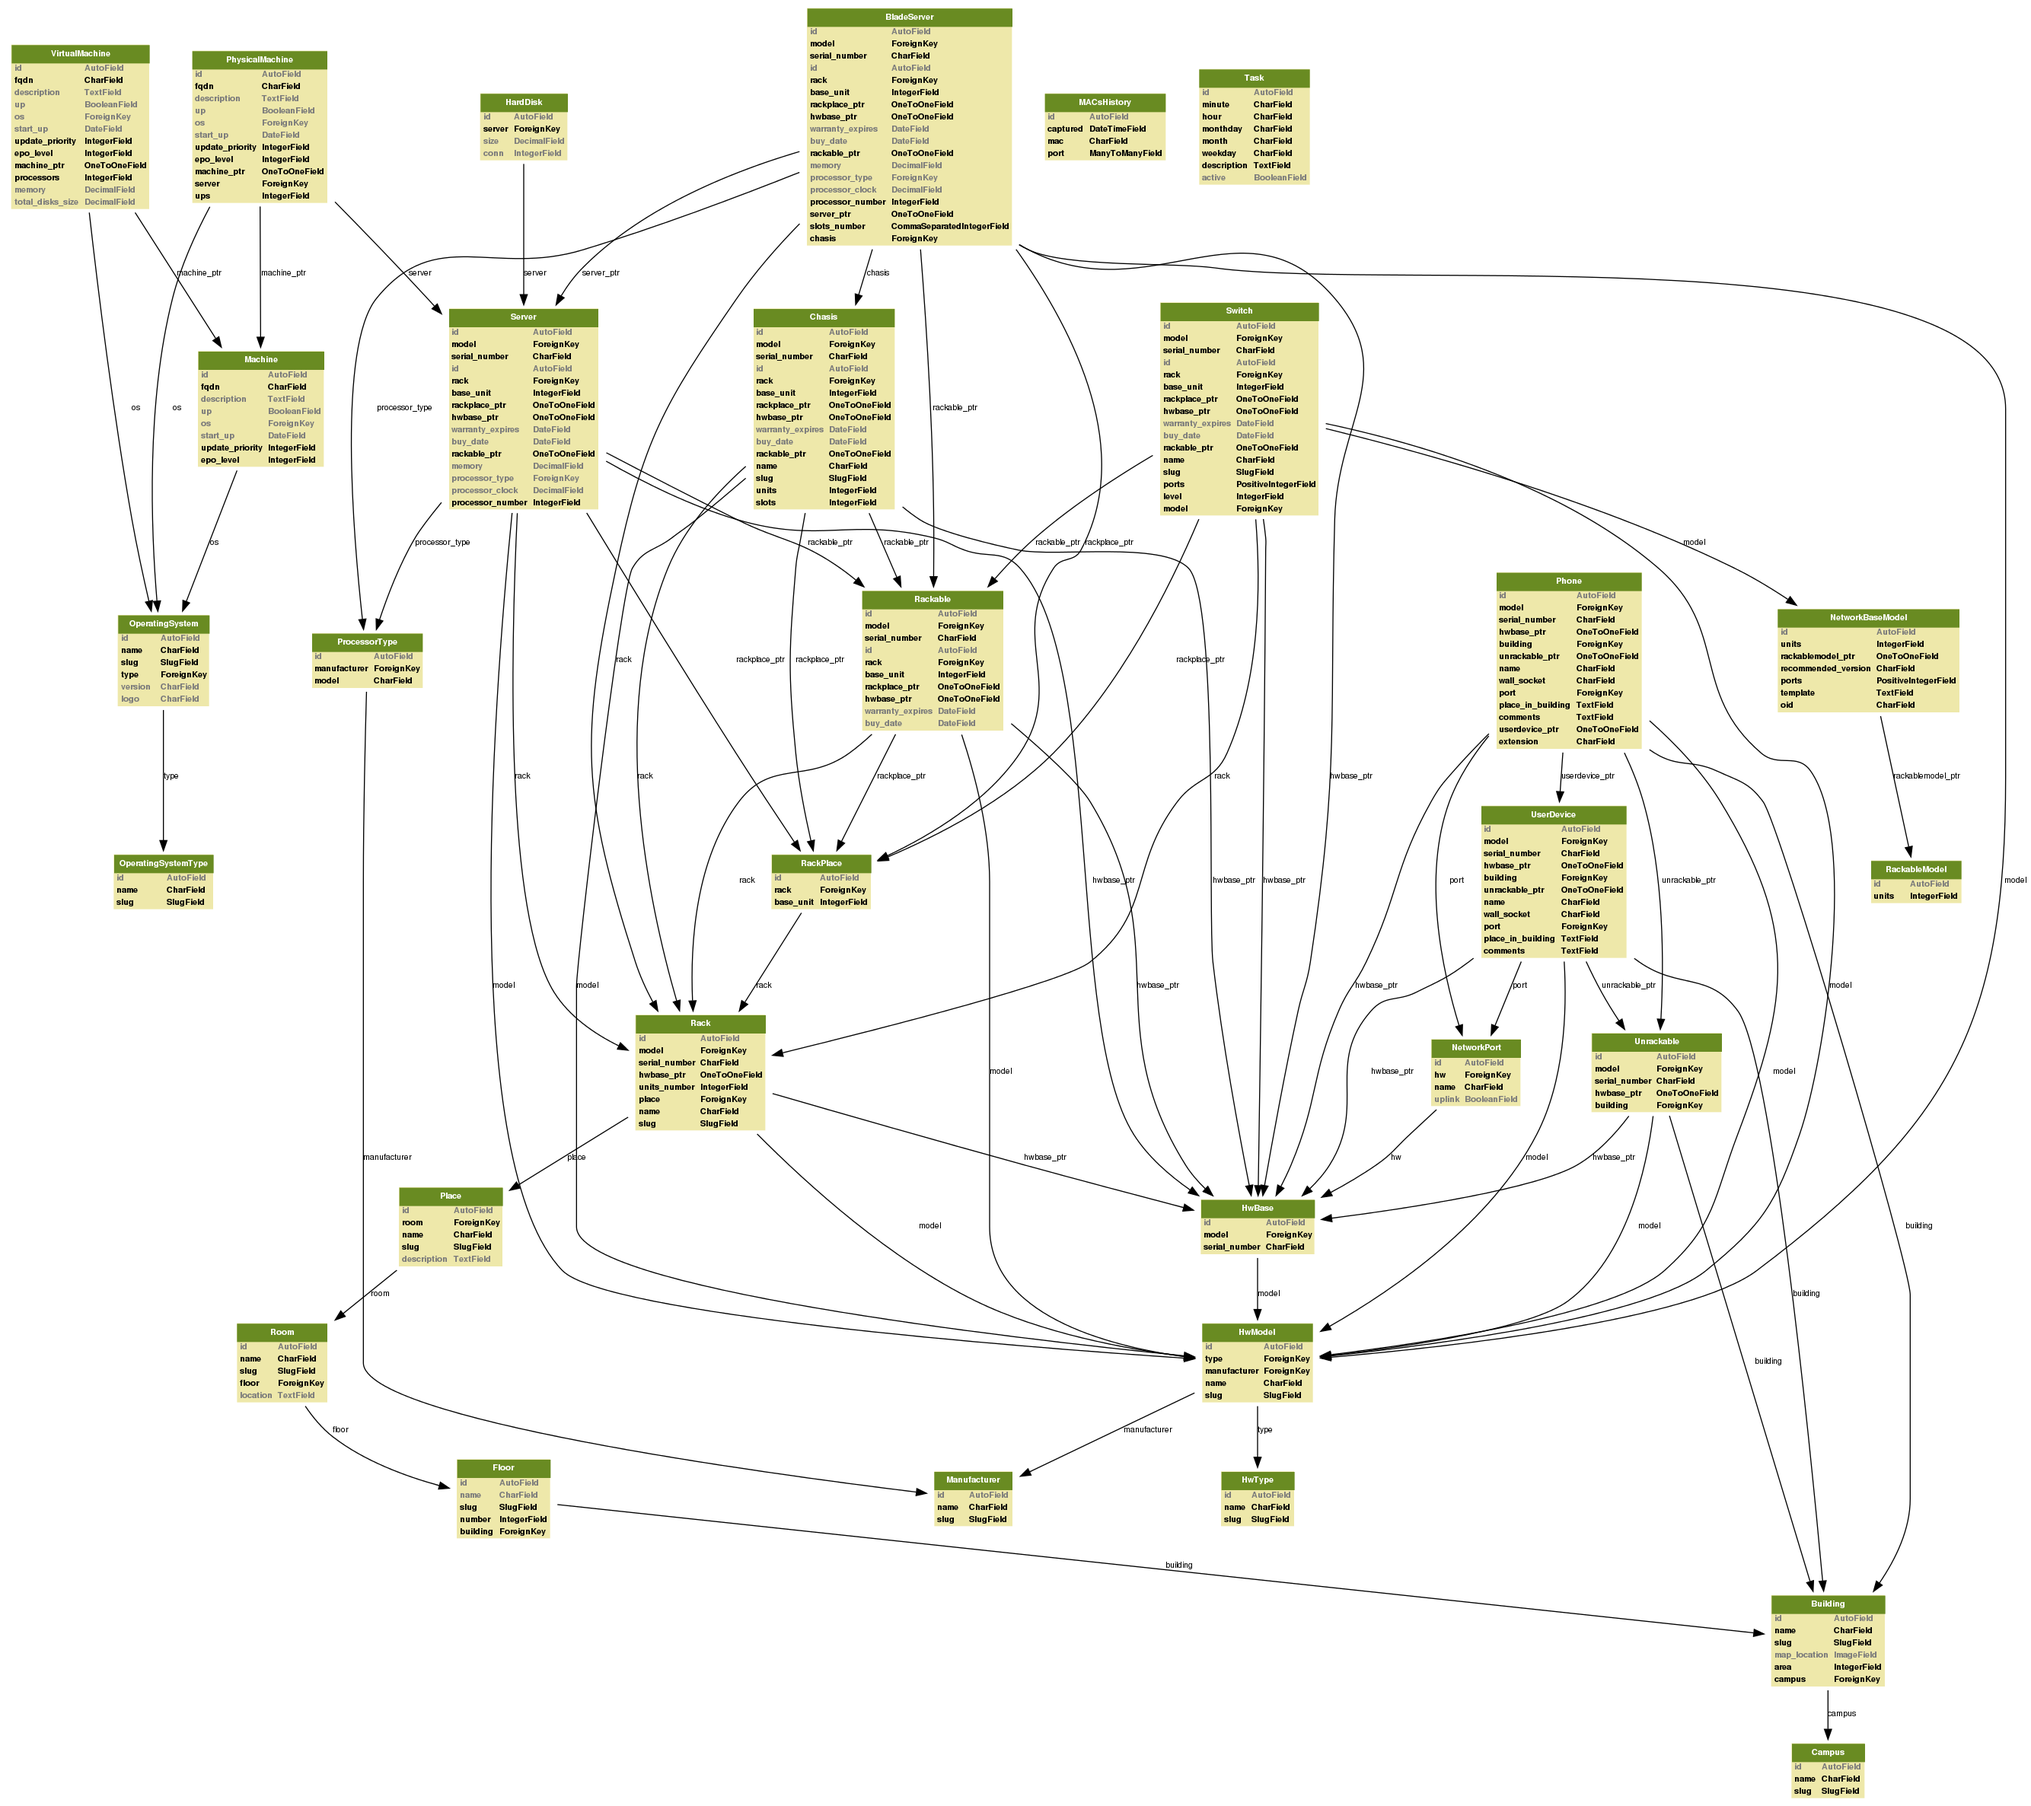
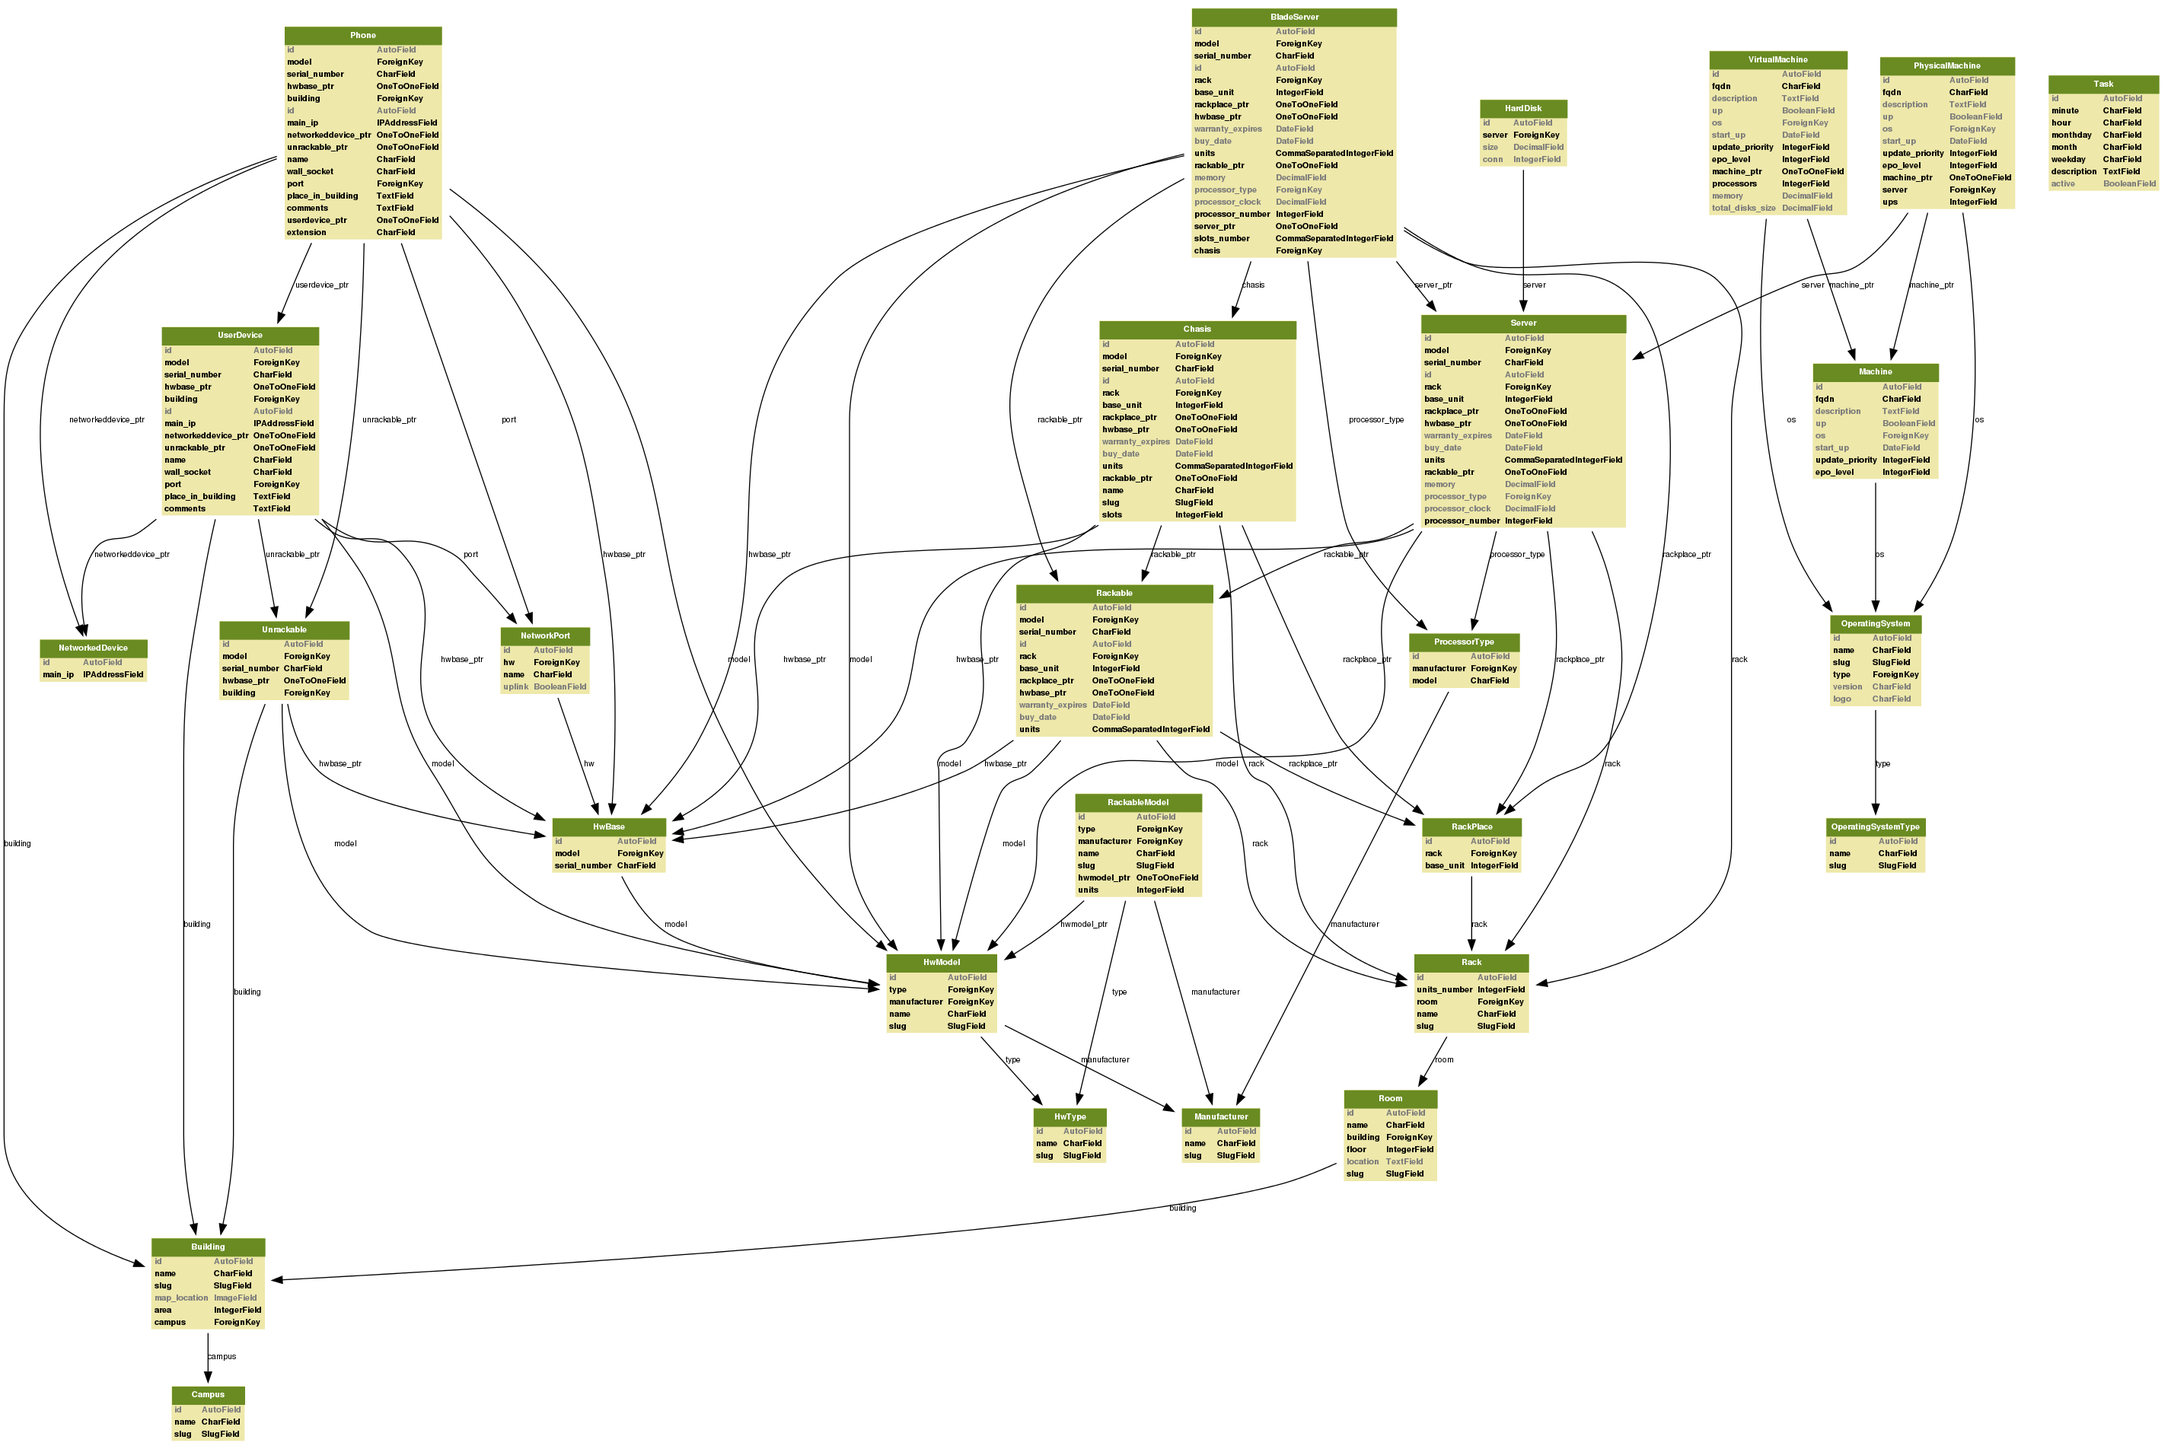
Split hardware into two apps. hardware_models app will manage manufactures, servers models (R510, etc.) , and all that abstract staff while hardware app will manage things we currently own

diff --git a/arritranco/hardware/models.py b/arritranco/hardware/models.py
@@ -1,6 +1,7 @@
 from django.db import models
 from location.models import Room, Building
 from django.utils.translation import ugettext_lazy as _
+from hardware_model.models import HwModel, Manufacturer
 
 HD_CONN = (
     (0, 'SCSI'),
@@ -9,47 +10,11 @@ HD_CONN = (
     (3, 'SAS'),
 )
 
-class HwType(models.Model):
-    """This tool is intended to be used to store differents classes of hardware such as
-    switches, servers, racks, workstations, displays, etc. Therefore we need a way to
-    filter them"""
-    name = models.CharField(max_length=255, help_text = _(u'Hardware Type Name'))
-    slug = models.SlugField()
-
-    def __unicode__(self):
-        return unicode(self.name)
-
-    class Meta:
-        ordering = ['name', ]
-
-class Manufacturer(models.Model):
-    """This class is for inventory of manufacturer we have"""
-    name = models.CharField(max_length=255, help_text = _(u'Manufacturer Name'))
-    slug = models.SlugField()
-
-    def __unicode__(self):
-        return self.name
-
-    class Meta:
-        ordering = ['name', ]
-        
-class HwModel(models.Model):
-    type = models.ForeignKey(HwType, help_text = _(u'Hardware Type'))
-    manufacturer = models.ForeignKey(Manufacturer, help_text=_(u'Hardware Manufacturer'))
-    name = models.CharField(max_length = 255, help_text = _(u'Name'))
-    slug = models.SlugField()
-    
-    def __unicode__(self):
-        return u"%s -- %s (%s)" % (self.manufacturer, self.name, self.type)
-    
-class RackableModel(HwModel):
-    units = models.IntegerField()
-
 class HwBase(models.Model):
     """This class is the base for all other hardware classes. It includes
     only those common attributes for all hardware classes such as serial
     numbers. Any particular attribute goes in the closer model"""
-    model = models.ForeignKey(HwModel, help_text = _('Harddware Model'))
+    model = models.ForeignKey(HwModel, help_text = _('Hardware Model'))
     serial_number = models.CharField(max_length = 255, help_text = _(u'Hardware Serial Number'))
 
 class Rack(models.Model):
@@ -70,6 +35,7 @@ class RackPlace(models.Model):
 class Rackable(HwBase, RackPlace):
     warranty_expires = models.DateField(blank=True, null=True)
     buy_date = models.DateField(blank=True, null=True)
+    units = models.CommaSeparatedIntegerField(max_length=300, help_text = _(u'Units the server takes'))
     
 class Unrackable(HwBase):
     building = models.ForeignKey(Building)
@@ -101,7 +67,6 @@ class Server(Rackable):
 class Chasis(Rackable):
     name = models.CharField(max_length = 255)
     slug = models.SlugField()
-    units = models.IntegerField()
     slots = models.IntegerField()
     
 class BladeServer(Server):

diff --git a/arritranco/hardware_model/models.py b/arritranco/hardware_model/models.py
@@ -1,0 +1,41 @@
+from django.db import models
+from django.utils.translation import ugettext_lazy as _
+
+
+
+class HwType(models.Model):
+    """This tool is intended to be used to store differents classes of hardware such as
+    switches, servers, racks, workstations, displays, etc. Therefore we need a way to
+    filter them"""
+    name = models.CharField(max_length=255, help_text = _(u'Hardware Type Name'))
+    slug = models.SlugField()
+
+    def __unicode__(self):
+        return unicode(self.name)
+
+    class Meta:
+        ordering = ['name', ]
+        
+class Manufacturer(models.Model):
+    """This class is for inventory of manufacturer we have"""
+    name = models.CharField(max_length=255, help_text = _(u'Manufacturer Name'))
+    slug = models.SlugField()
+
+    def __unicode__(self):
+        return self.name
+
+    class Meta:
+        ordering = ['name', ]
+        
+class HwModel(models.Model):
+    type = models.ForeignKey(HwType, help_text = _(u'Hardware Type'))
+    manufacturer = models.ForeignKey(Manufacturer, help_text=_(u'Hardware Manufacturer'))
+    name = models.CharField(max_length = 255, help_text = _(u'Name'))
+    slug = models.SlugField()
+    
+    def __unicode__(self):
+        return u"%s -- %s (%s)" % (self.manufacturer, self.name, self.type)
+    
+class RackableModel(HwModel):
+    units = models.IntegerField()
+    

diff --git a/arritranco/hardware/admin.py b/arritranco/hardware/admin.py
@@ -4,8 +4,7 @@ Created on 23/12/2010
 @author: esauro
 '''
 from django.contrib import admin
-from models import Server, Rack, Manufacturer, HwModel, HwType, RackPlace, Chasis, BladeServer
-from hardware.models import HardDisk
+from models import Server, Rack, RackPlace, Chasis, BladeServer, HardDisk
 
 class HardDiskInline(admin.TabularInline):
     model = HardDisk
@@ -17,9 +16,6 @@ class ServerAdmin(admin.ModelAdmin):
    
 admin.site.register(Server, ServerAdmin)
 admin.site.register(Rack)
-admin.site.register(Manufacturer)
-admin.site.register(HwModel)
-admin.site.register(HwType)
 admin.site.register(RackPlace)
 admin.site.register(Chasis)
 admin.site.register(BladeServer)

diff --git a/arritranco/hardware_model/tests.py b/arritranco/hardware_model/tests.py
@@ -1,0 +1,23 @@
+"""
+This file demonstrates two different styles of tests (one doctest and one
+unittest). These will both pass when you run "manage.py test".
+
+Replace these with more appropriate tests for your application.
+"""
+
+from django.test import TestCase
+
+class SimpleTest(TestCase):
+    def test_basic_addition(self):
+        """
+        Tests that 1 + 1 always equals 2.
+        """
+        self.failUnlessEqual(1 + 1, 2)
+
+__test__ = {"doctest": """
+Another way to test that 1 + 1 is equal to 2.
+
+>>> 1 + 1 == 2
+True
+"""}
+

diff --git a/arritranco/inventory/admin.py b/arritranco/inventory/admin.py
@@ -10,4 +10,4 @@ admin.site.register(PhysicalMachine)
 admin.site.register(VirtualMachine)
 admin.site.register(OperatingSystem)
 admin.site.register(OperatingSystemType)
-admin.site.register(Machine)
+#admin.site.register(Machine)

diff --git a/arritranco/hardware_model/admin.py b/arritranco/hardware_model/admin.py
@@ -1,0 +1,7 @@
+from django.contrib import admin
+
+from models import Manufacturer, HwModel, HwType
+
+admin.site.register(Manufacturer)
+admin.site.register(HwModel)
+admin.site.register(HwType)

diff --git a/arritranco/settings.py b/arritranco/settings.py
@@ -90,6 +90,7 @@ INSTALLED_APPS = (
     'debug_toolbar',
     'scheduler',
     'inventory',
+    'hardware_model',
     #'network',
 #    'backups',
 )

diff --git a/arritranco/hardware_model/views.py b/arritranco/hardware_model/views.py
@@ -1,0 +1,1 @@
+# Create your views here.
